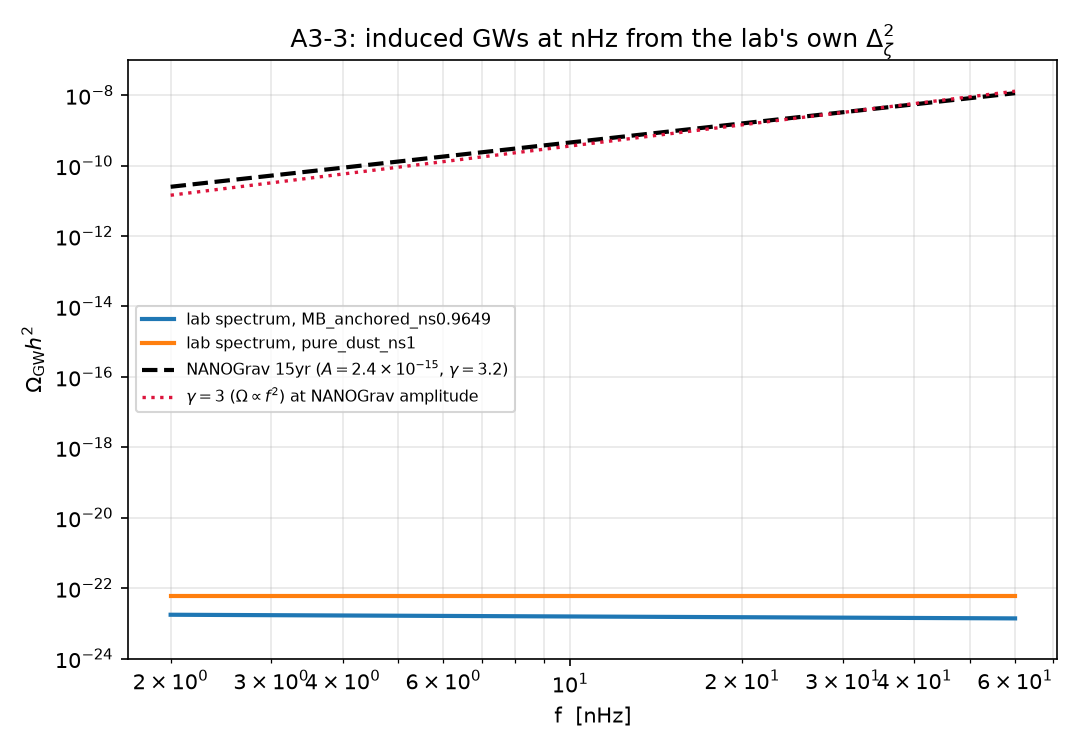
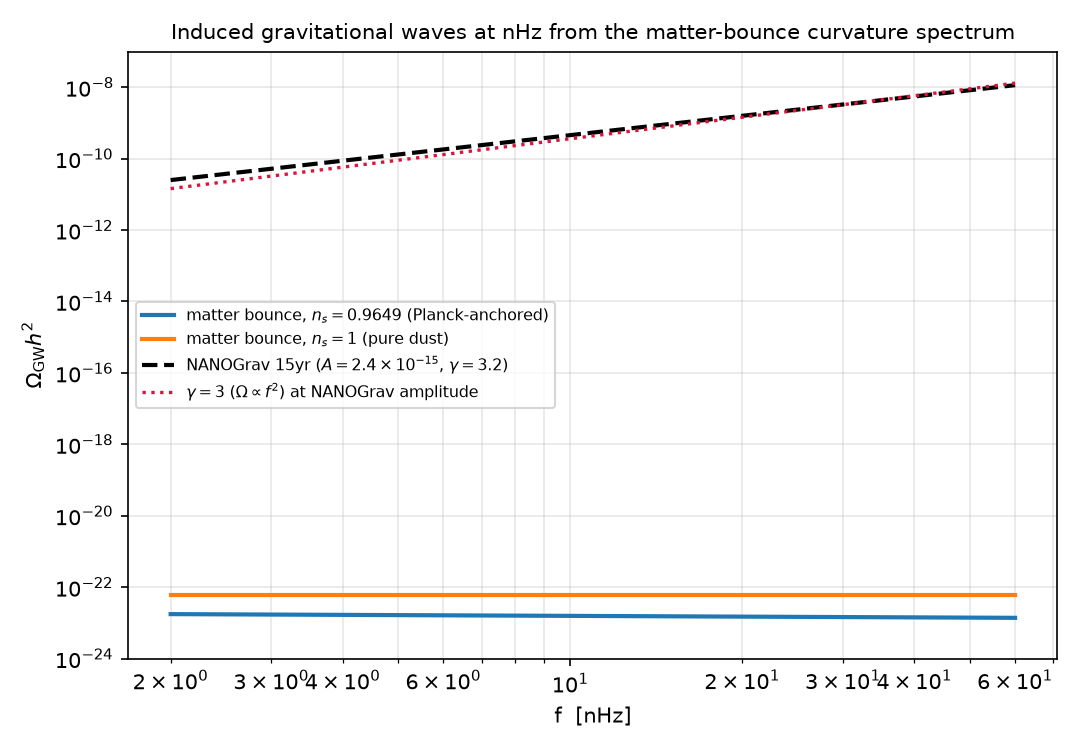
fix(a3m-r5-c5): regenerate Fig 1 with publication labels, close Omega_DM footnote residual (DA3M-R5-12, R4-12; directive I6)
Fig. 1 (sigw_nhz_from_lab_spectrum_2026_09_04.png) carried internal
labels ("A3-3", "MB_anchored_ns0.9649", "pure_dust_ns1") baked into the
PNG. Per directive I6, regenerated it from a scratchpad copy of the
committed generator (sigw_nhz_from_lab_spectrum_2026_09_04.py under
research/track_a3_multichannel/ is owned by a concurrent lane and was not
touched or run in place) with publication-quality title/legend labels,
verified the regenerated JSON is numerically identical to the committed
outputs/sigw_nhz_from_lab_spectrum_2026_09_04.json (nanograv_reference,
branches match exactly), and re-mirrored only the paper/-local PNG
(outputs/ copy, also owned by the concurrent lane, is untouched).
Verified by rendering page 8 of the recompiled PDF.

Also caught and fixed a second in-body "this lab's" split across a line
break in Fig. 1's own caption (missed by a single-line grep) -> "this
model's", and quantified the Omega_DM=0.674/h-mislabel footnote residual:
the tabulated f_PBH column would shift by 0.674/0.264~2.55 under the
correct dark-matter density, but the model's own predicted f_PBH is
exactly zero regardless (seven orders of magnitude below either
normalization), so the mislabel changes no conclusion.

diff --git a/research/track_a3_multichannel/paper/main.tex b/research/track_a3_multichannel/paper/main.tex
@@ -785,7 +785,7 @@ bispectrum amplitude, and would be identical at $-35/16$ and $-35/8$.
   \centering
   \includegraphics[width=\columnwidth]{sigw_nhz_from_lab_spectrum_2026_09_04.png}
   \caption{\label{fig:sigw}Channel I null: $\OmGW h^2(f)$ induced by this
-  lab's own committed curvature spectrum (CMB-anchored $n_s=0.9649$ and the
+  model's own committed curvature spectrum (CMB-anchored $n_s=0.9649$ and the
   $n_s=1$ dust bracket), propagated through the validated Kohri--Terada
   radiation-era kernel~\cite{KohriTerada2018} and the scale-independent A2
   transfer, against NANOGrav's 15-yr power-law posterior
@@ -974,9 +974,13 @@ reduced Hubble parameter $h$, not the dark-matter density parameter
 (Eq.~\eqref{eq:pbh_ratio}) and this section's null verdict are unaffected,
 since $\Omega_{\rm DM}$ cancels identically there; the \emph{tabulated}
 $\fpbh$ column and Fig.~\ref{fig:pbh} are calibrated so the Gaussian case
-gives $\fpbh=1$ at this quoted value and would shift under the
-dark-matter-density value -- they are not independent of which
-$\Omega_{\rm DM}$ is used.}, $g_*=g_{*s}=106.75$, and a single horizon mass
+gives $\fpbh=1$ at this quoted value and would shift by the factor
+$0.674/0.264\approx2.55$ under the dark-matter-density value (since
+$\fpbh\propto1/\Omega_{\rm DM}$) -- they are not independent of which
+$\Omega_{\rm DM}$ is used, though this $O(1)$ rescaling changes none of
+this section's conclusions: the model's own predicted $\fpbh$ is exactly
+zero in double precision regardless (Sec.~\ref{sec:pbh_inlab}), seven
+orders of magnitude below either normalization.}, $g_*=g_{*s}=106.75$, and a single horizon mass
 $M_H = 10^{20}\,$g (matching the first pass, rather than the mass-integrated
 Eq.~66 of Choudhury \textit{et al.}, an $O(1)$ width-factor deviation for a
 narrow peak). Full formalism, the itemized deviations from Choudhury \textit{et al.}'s setup (mass-integration, width-factor, and spectrum-shape approximations), and validation are recorded
